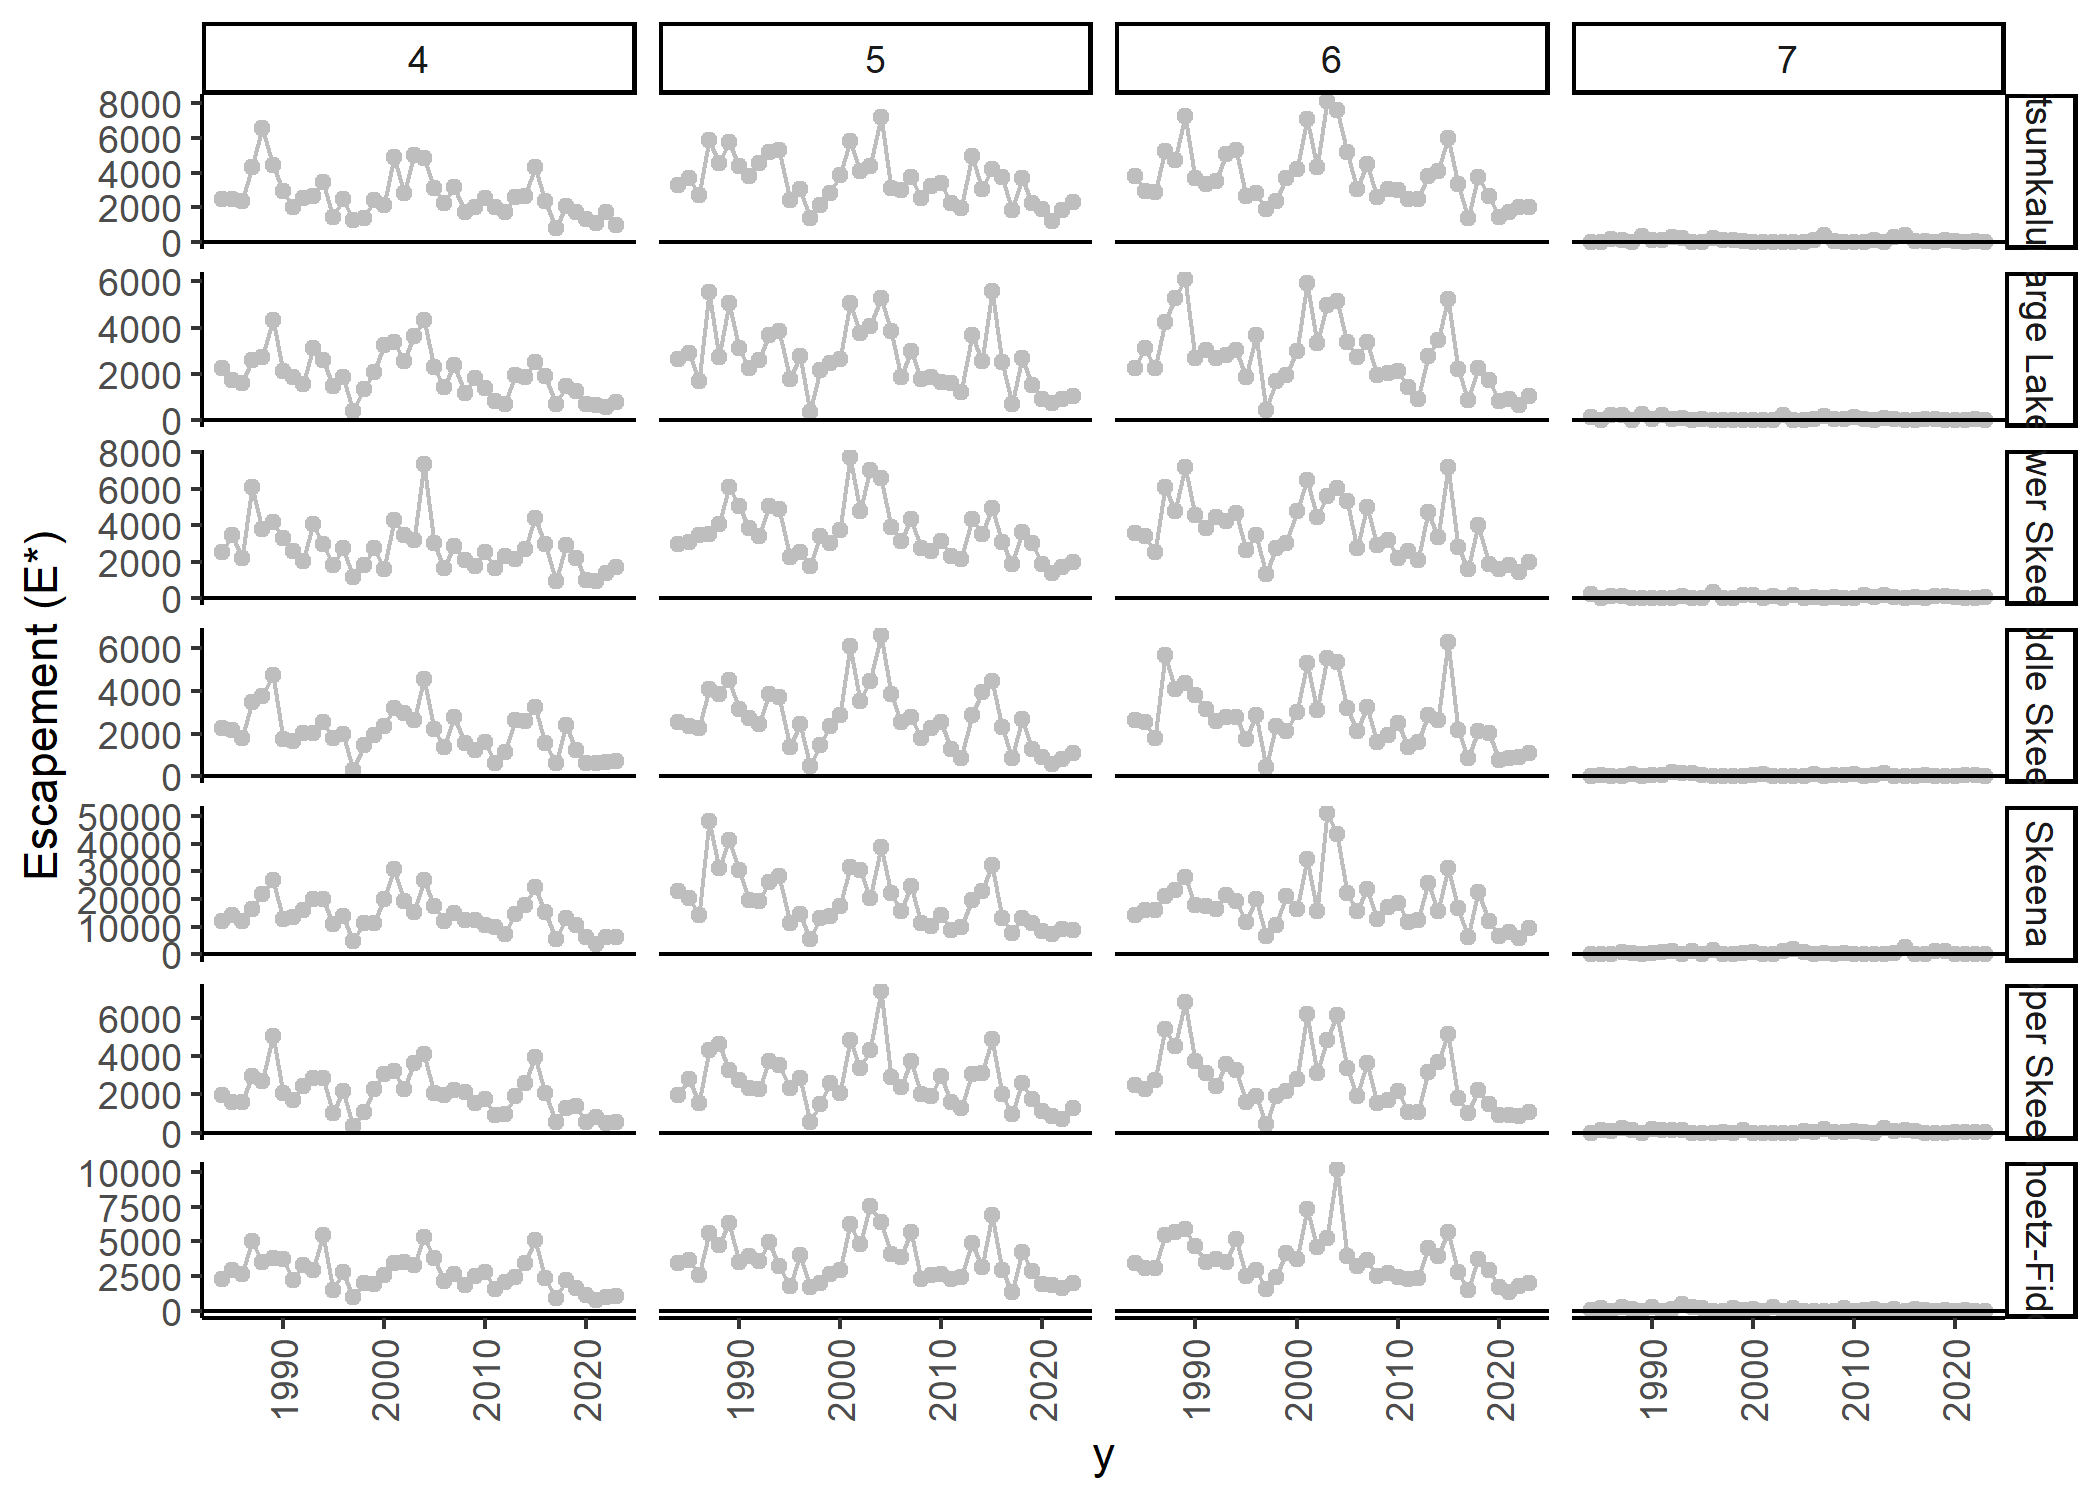
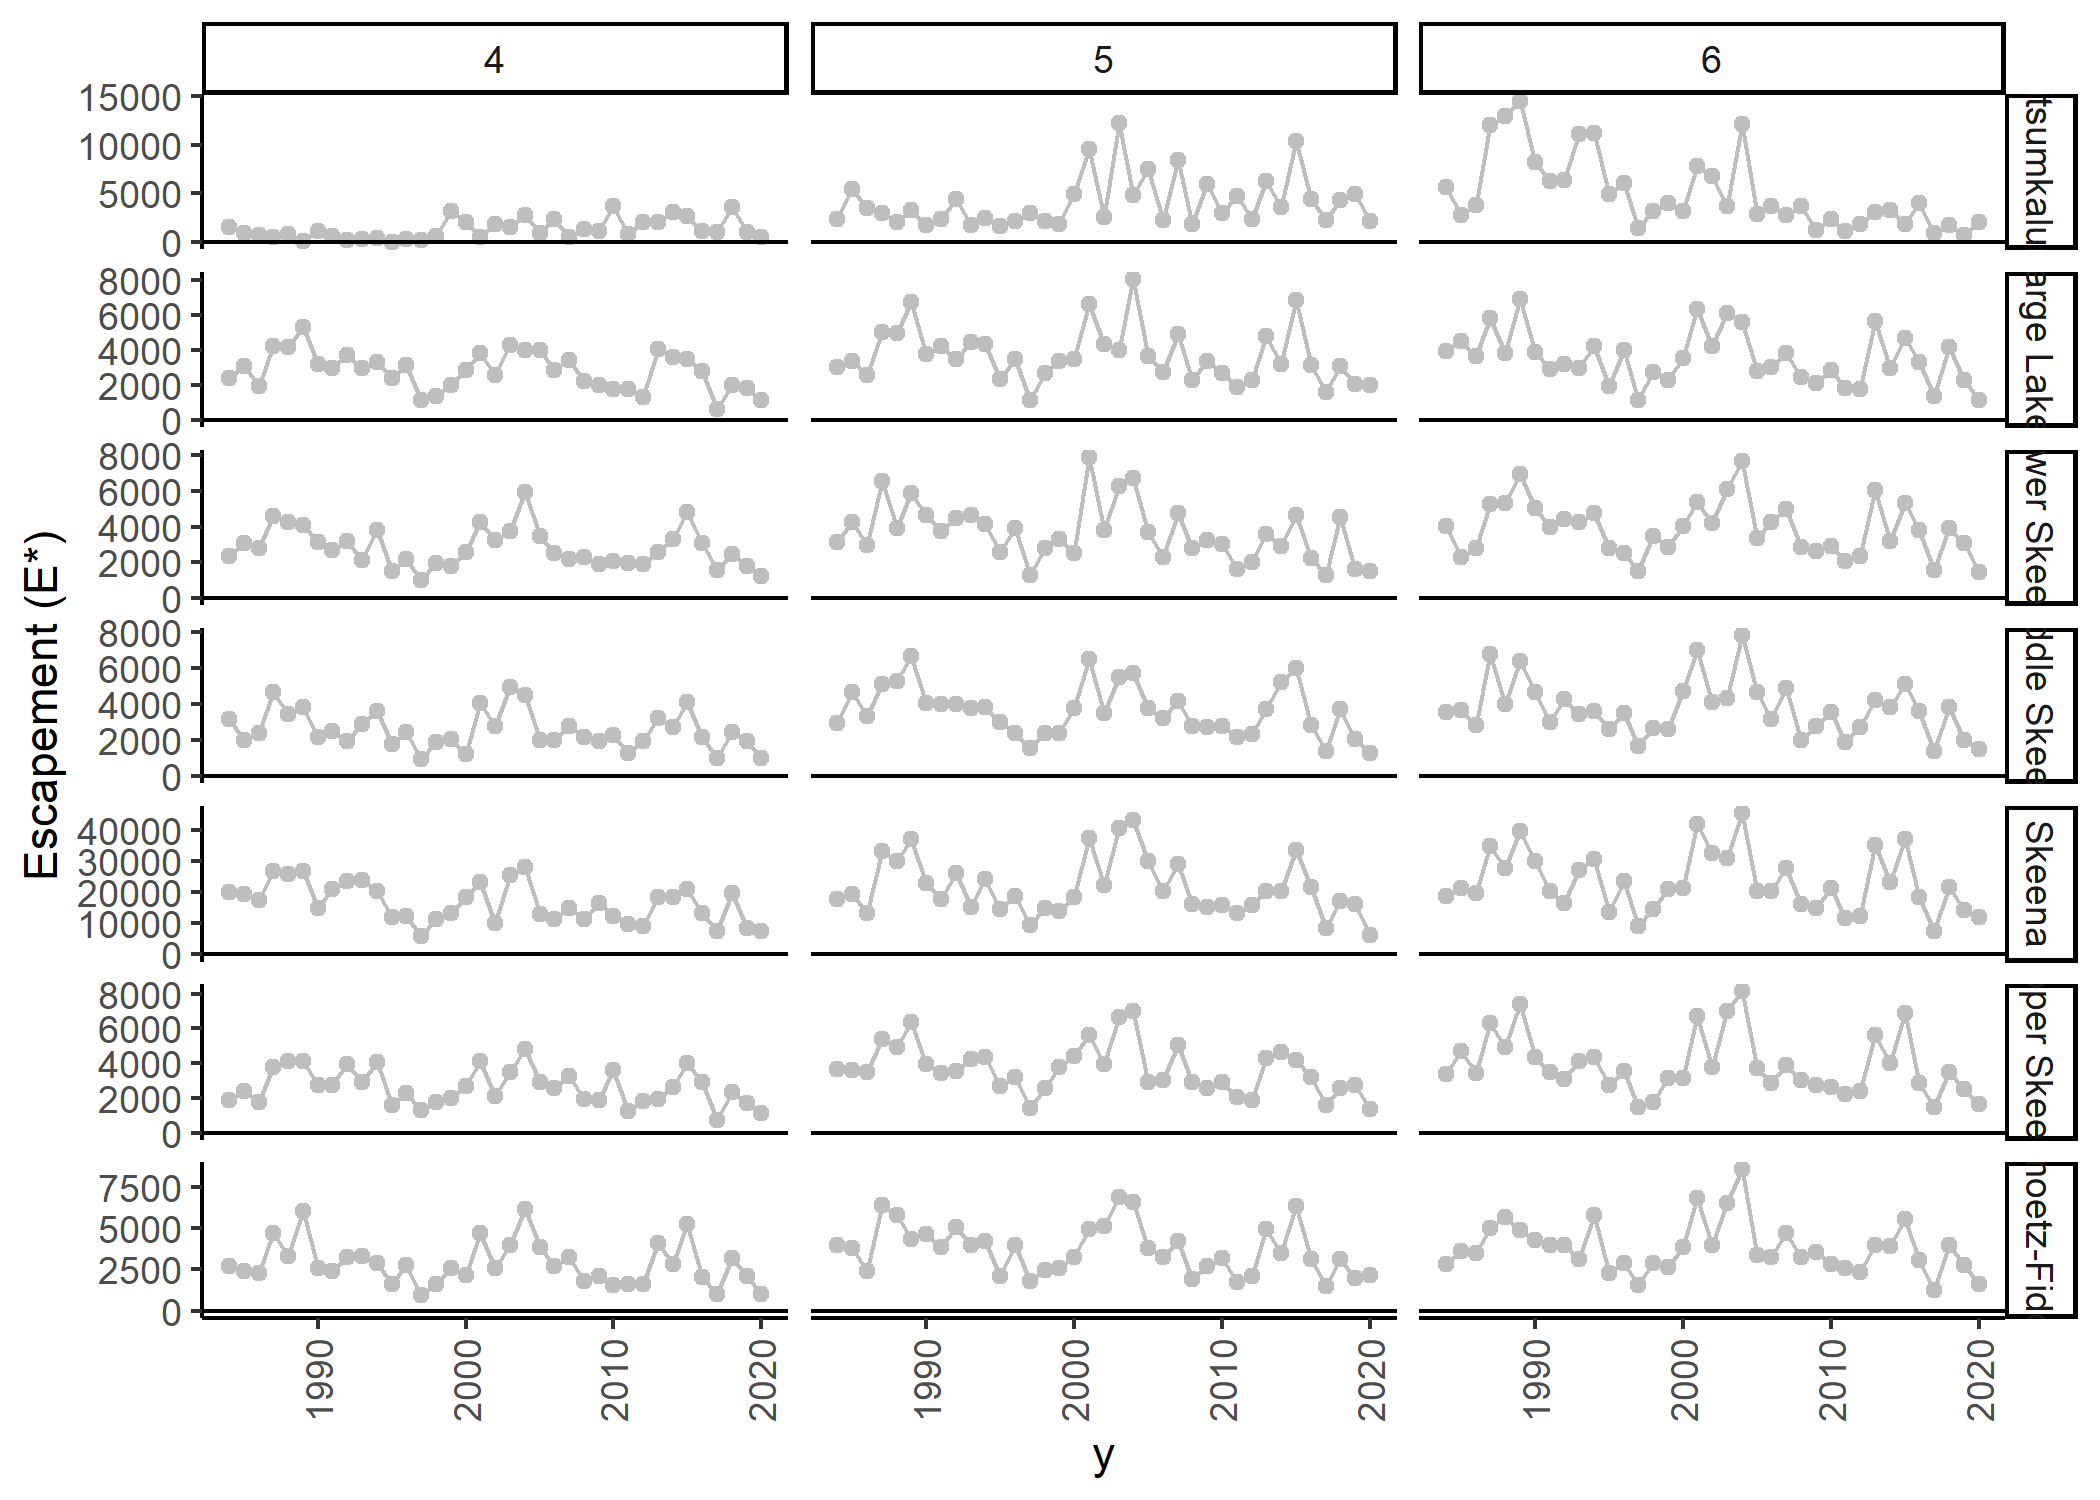
Update README with example data

diff --git a/README.md b/README.md
@@ -45,19 +45,32 @@ You can install the development version of skrunchy from
     install.packages("pak")
     pak::pak("Pacific-salmon-assess/skrunchy")
 
-## Examples (currently use fake data for several data sources - not accurate)
+## Example data
 
-Make some **fake** genetic proportion and catch data (by week),
-aggregate into estimates of annual proportions, and plot:
+The `data/` folder contains example data that all made up (exception is
+Kitsumkalum River escapement data), so don’t use this for any analysis.
+This is only for package testing and examples. Example data goes from
+return years 1984-2020.
+
+Example data sets start with the prefix `ex_`.
+
+## Examples (currently use fake data for several data sources - testing only)
+
+We can walk through all the functions with example data.
+
+Note that most of the package functions produce lists with two elements.
+where the first element is an array, and the second element is a data
+frame. The array is used for subsequent analysis, and the data frame is
+useful for plotting and producing report tables.
+
+Read in example data for Skeena Tyee test fishery weekly catch and
+genetic mixture data.
 
 ``` r
 
-d <- make_P_G()
-res <- get_P_tilde(P = d$P, sigma_P = d$sigma_P, G = d$G)
-P_tilde <- res$P_tilde
-dp <- res$df
+P_tilde <- get_P_tilde(P = ex_P, sigma_P = ex_sigma_P, G = ex_G)
 
-ggplot(dp, aes(y = P_tilde, x = y, group = i)) +
+ggplot( P_tilde$df, aes(y = P_tilde, x = y, group = i)) +
   geom_errorbar( aes( ymin = P_tilde - sigma_P_tilde, ymax = P_tilde + sigma_P_tilde ), colour="dodgerblue") +
   geom_point() +
   geom_line() +
@@ -73,13 +86,11 @@ Now do expansions to get returns to Terrace for each population plus the
 aggregate
 
 ``` r
-k <- read.csv(here("data/kitsumkalum-escapement.csv"))
-X <- get_X(P_tilde = res$P_tilde, sigma_P_tilde = res$sigma_P_tilde, K= k$kitsumkalum_escapement, 
-           sigma_K = k$sd,
-           y = k$year)
-dt <- X$df
+X <- get_X(P_tilde = P_tilde$P_tilde, sigma_P_tilde = P_tilde$sigma_P_tilde, K= ex_k$kitsumkalum_escapement, 
+           sigma_K = ex_k$sd,
+           y = ex_k$year)
 
-ggplot(dt, aes(y = X, x = y, group = i)) +
+ggplot( X$df, aes(y = X, x = y, group = i)) +
   geom_errorbar( aes( ymin = X - sigma_X, ymax = X + sigma_X)) +
   geom_point() +
   geom_line() +
@@ -93,8 +104,7 @@ escapement for each population, plot with returns to Terrace (note, will
 only be different for Skeena aggregate and the three upper populations)
 
 ``` r
-Tau_U <- sample(5000:10000, size=length(k$y), replace=TRUE)
-E <- get_E(K = k$kitsumkalum_escapement, X = X$X, Tau_U = Tau_U,
+E <- get_E(K = ex_k$kitsumkalum_escapement, X = X$X, Tau_U = ex_Tau_U_total,
      known_population = "Kitsumkalum",
      aggregate_population = "Skeena",
      lower_populations = c("Lower Skeena", "Zymoetz-Fiddler"),
@@ -102,11 +112,11 @@ E <- get_E(K = k$kitsumkalum_escapement, X = X$X, Tau_U = Tau_U,
 de <- E$df
 
 
-ggplot(dt, aes(y = X, x = y, group = i)) +
+ggplot(X$df, aes(y = X, x = y, group = i)) +
   geom_errorbar( aes( ymin = X - sigma_X, ymax = X + sigma_X)) +
   geom_point() +
   geom_line() +
-  geom_line(data = de, aes(y = E, x = y, group=i), colour="gray") +
+  geom_line(data = E$df, aes(y = E, x = y, group=i), colour="gray") +
   facet_wrap(~i, ncol=2, scales = "free_y") +
   ylab("Return to Terrace (X) in black, escapement (E) in gray") +
   geom_hline(aes(yintercept=0)) +
@@ -118,20 +128,9 @@ ggplot(dt, aes(y = X, x = y, group = i)) +
 Get age proportions by age, population and year (fake data).
 
 ``` r
- populations <- c("Kitsumkalum", "Lower Skeena", "Zymoetz-Fiddler", "Upper Skeena", "Middle Skeena", "Large Lakes", "Skeena")
-  n_populations <- length(populations)
-  years <- k$year
-  n_years <- length(years)
-  ages <- c(4,5,6,7)
-  p_ages <- c(30,40,40,1) # make up relative frequency of different ages
-  n_ages <- length(ages)
-  # Make up some age data - number of aged fish of each age
-  d <- sapply(p_ages, FUN = function(x){ rpois( n = n_populations*n_years, lambda= x) })
-  n <- array( d,  dim = c(n_populations, n_years, n_ages), dimnames = list(i = populations, y = years, a = ages))
-  omega <- get_omega(n)
-do <- omega$df
+omega <- get_omega(ex_n)
 
-ggplot( do, aes(y = omega, x = y, group = i)) +
+ggplot( omega$df, aes(y = omega, x = y, group = i)) +
   geom_point() + 
   geom_line() + 
   geom_hline(aes(yintercept=0)) + 
@@ -146,7 +145,7 @@ ggplot( do, aes(y = omega, x = y, group = i)) +
 Get age-specific escapement by using age proportions.
 
 ``` r
-E_star <- get_E_star(E = E$E, omega = omega$omega)
+E_star <- get_E_star(E = E$E, omega = omega$omega, K_star = ex_K_star, add_6_7 = TRUE)
 
 ggplot( E_star$df, aes(y = E_star, x = y, group = i)) +
   geom_point( colour="gray") + 
@@ -167,9 +166,13 @@ brood removals are only for Kitsumkalum.
 
 ``` r
 # make up brood removal data. Much larger than actual values, so that it is visible on plots. 
-B_star <- E_star$E_star["Kitsumkalum",,] * runif(n = length(E_star$E_star["Kitsumkalum",,] ), 0.1, 0.2 )
-B_star[,4] <- 0 # make age 7 brood = 0 so you don't get negative fish in S_star
-S_star <- get_S_star(E_star = E_star$E_star, B_star = B_star)
+S_star <- get_S_star(E_star = E_star$E_star, B_star = ex_B_star)
+str(S_star$df)
+#> 'data.frame':    777 obs. of  4 variables:
+#>  $ i     : chr  "Skeena" "Kitsumkalum" "Lower Skeena" "Middle Skeena" ...
+#>  $ y     : int  1984 1984 1984 1984 1984 1984 1984 1985 1985 1985 ...
+#>  $ a     : chr  "4" "4" "4" "4" ...
+#>  $ S_star: num  20000 1555 2379 3143 2732 ...
 
 ggplot( E_star$df, aes(y = E_star, x = y, group = i)) +
   geom_point(colour="gray") + 
@@ -180,6 +183,20 @@ ggplot( E_star$df, aes(y = E_star, x = y, group = i)) +
   ylab("Escapement (E*) in gray and spawners (S*) in blue") +
   theme_classic() +
   theme(axis.text.x = element_text(angle=90, vjust=0.5))
+#> Warning: Combining variables of class <integer> and <character> was deprecated in
+#> ggplot2 3.4.0.
+#> ℹ Please ensure your variables are compatible before plotting (location:
+#>   `combine_vars()`)
+#> This warning is displayed once every 8 hours.
+#> Call `lifecycle::last_lifecycle_warnings()` to see where this warning was
+#> generated.
+#> Warning: Combining variables of class <character> and <integer> was deprecated in
+#> ggplot2 3.4.0.
+#> ℹ Please ensure your variables are compatible before plotting (location:
+#>   `combine_vars()`)
+#> This warning is displayed once every 8 hours.
+#> Call `lifecycle::last_lifecycle_warnings()` to see where this warning was
+#> generated.
 ```
 
 <img src="man/figures/README-example_S_star-1.png" width="100%" />
@@ -190,11 +207,8 @@ spawners should only be different from spawners for Skeena aggregate and
 Kitsumkalum, since hatchery origin spawners only occur for Kitsumkalum.
 
 ``` r
-# make up hatchery spawners data. Larger than actual values, so that it is visible on plots. 
-H_star <- S_star$S_star["Kitsumkalum",,] * runif(n = length(S_star$S_star["Kitsumkalum",,] ), 0.1, 0.5 )
-H_star[,4] <- 0 # make age 7 hatchery 0 to avoid negative wild spawner values.
 ## get Wild spawners
-W_star <- get_W_star( S_star = S_star$S_star, H_star = H_star) 
+W_star <- get_W_star( S_star = S_star$S_star, H_star = ex_H_star) 
 
 ggplot( E_star$df, aes(y = E_star, x = y, group = i)) +
   geom_point(colour="gray") + 
@@ -233,8 +247,7 @@ Estimate terminal total mortalities in the lower Skeena by population,
 year, and age.
 
 ``` r
-Tau_L <- sample(1000:2000, size = length(k$year))
-tau_L <- get_tau_L(Tau_L = Tau_L, omega = omega$omega, P_tilde = P_tilde, aggregate_population = "Skeena")
+tau_L <- get_tau_L(Tau_L = ex_Tau_L_total, omega = omega$omega, P_tilde = P_tilde$P_tilde, aggregate_population = "Skeena", add_6_7 = TRUE)
 dtauL <- tau_L$df 
 
 ggplot( dtauL, aes(y =tau_L, x = y, group = i)) +
@@ -254,13 +267,11 @@ year, and age. Should be 0 for Kitsumkalum, Lower Skeena, and
 Zymoetz-Fiddler.
 
 ``` r
-tau_U <- get_tau_U(Tau_U = Tau_U, omega = omega$omega, P_tilde = P_tilde, aggregate_population = "Skeena",
+tau_U <- get_tau_U(Tau_U = ex_Tau_U_total, omega = omega$omega, P_tilde = P_tilde$P_tilde, aggregate_population = "Skeena",
                    upper_populations = c("Middle Skeena", "Large Lakes", "Upper Skeena"),
-    lower_populations = c("Lower Skeena", "Kitsumkalum", "Zymoetz-Fiddler") )
+    lower_populations = c("Lower Skeena", "Kitsumkalum", "Zymoetz-Fiddler"), add_6_7 = TRUE)
 
-dtauU <- tau_U$df 
-
-ggplot( dtauU, aes(y =tau_U, x = y, group = i)) +
+ggplot( tau_U$df, aes(y =tau_U, x = y, group = i)) +
   geom_point() + 
   geom_line() + 
   geom_hline(aes(yintercept=0)) + 
@@ -276,9 +287,7 @@ Estimate terminal total mortalities in the marine area by population,
 year, and age.
 
 ``` r
-use_arr <- W_star$W_star["Kitsumkalum",,]
-tau_dot_M <- array(runif(length(use_arr), 0.01, 0.2), dim = dim(use_arr), dimnames = dimnames(use_arr))
-tau_M <- get_tau_M( W_star = W_star$W_star, tau_dot_M = tau_dot_M)
+tau_M <- get_tau_M( W_star = W_star$W_star, tau_dot_M = ex_tau_dot_M)
 
 ggplot( tau_M$df, aes(y =tau_M, x = y, group = i)) +
   geom_point() + 
@@ -333,7 +342,7 @@ ggplot( tau$df, aes(y =tau, x = y, group = i)) +
 Get wild terminal run
 
 ``` r
-TermRun <- get_TermRun(tau_W = tau_W$tau_W, W_star = W_star$W_star, B_star = B_star)
+TermRun <- get_TermRun(tau_W = tau_W$tau_W, W_star = W_star$W_star, B_star = ex_B_star)
 
 ggplot( TermRun$df, aes(y =TermRun, x = y, group = i)) +
   geom_line() +
@@ -352,9 +361,7 @@ ggplot( TermRun$df, aes(y =TermRun, x = y, group = i)) +
 Get mature run
 
 ``` r
-use_arr <- TermRun$TermRun["Kitsumkalum",,]
-phi_dot_M <- array(runif(length(use_arr), 0.01, 0.3), dim = dim(use_arr), dimnames = dimnames(use_arr))
-MatureRun <- get_MatureRun(TermRun = TermRun$TermRun, phi_dot_M = phi_dot_M)
+MatureRun <- get_MatureRun(TermRun = TermRun$TermRun, phi_dot_M = ex_phi_dot_M)
 
 ggplot( MatureRun$df, aes(y =MatureRun, x = y, group = i)) +
   geom_line(colour="darkgreen") +
@@ -372,11 +379,7 @@ ggplot( MatureRun$df, aes(y =MatureRun, x = y, group = i)) +
 Pre-terminal post fishery abundance.
 
 ``` r
-use_arr <- MatureRun$MatureRun["Kitsumkalum",,]
-# Make up some maturation rate data
-r <- array(runif(length(use_arr), 0.5, 0.99), dim = dim(use_arr), dimnames = dimnames(use_arr))
-r[, dimnames(r)$a %in% c(6,7) ] <- 1 # make maturation rate = 1 for age 6 and 7 fish
-A_phi <- get_A_phi( MatureRun = MatureRun$MatureRun, r = r)
+A_phi <- get_A_phi( MatureRun = MatureRun$MatureRun, r = ex_r)
 
 ggplot( MatureRun$df, aes(y =MatureRun, x = y, group = i)) +
   geom_line(colour="darkgreen") +
@@ -393,10 +396,7 @@ ggplot( MatureRun$df, aes(y =MatureRun, x = y, group = i)) +
 Pre-fishery ocean abundance.
 
 ``` r
-use_arr <-A_phi$A_phi["Kitsumkalum",,]
-# Make up some preterminal total mortality exploitation rate (non-net fisheries, e.g., troll) data
-phi_dot_E <- array(runif(length(use_arr), 0.01, 0.3), dim = dim(use_arr), dimnames = dimnames(use_arr))
-A_P <- get_A_P( A_phi = A_phi$A_phi, phi_dot_E = phi_dot_E)
+A_P <- get_A_P( A_phi = A_phi$A_phi, phi_dot_E = ex_phi_dot_E)
 
 ggplot( A_phi$df, aes(y = A_phi, x = y, group = i)) +
   geom_line(colour="dodgerblue") +
@@ -431,12 +431,7 @@ ggplot( phi_N$df, aes(y = phi_N, x = y, group = i)) +
 Preterminal fishing mortality in adult equivalents.
 
 ``` r
-use_arr <- phi_N$phi_N["Kitsumkalum",,]
-# Make up some adult equivalents data
-Q <- array(runif(length(use_arr), 0.5, 0.9), dim = dim(use_arr), dimnames = dimnames(use_arr))
-Q[, dimnames(r)$a %in% c(6,7) ] <- 1 # make maturation rate = 1 for age 6 and 7 fish
-
-phi_Q <- get_phi_Q( phi_N = phi_N$phi_N, Q = Q)
+phi_Q <- get_phi_Q( phi_N = phi_N$phi_N, Q = ex_Q)
 
 ggplot( phi_N$df, aes(y = phi_N, x = y, group = i)) +
   geom_line() +
@@ -466,20 +461,6 @@ ggplot( R_star$df, aes(y = R_star, x = y, group = i)) +
   facet_grid( i ~ a, scales="free_y") +
   theme_classic() +
   theme(axis.text.x = element_text(angle=90, vjust=0.5))
-#> Warning: Combining variables of class <integer> and <character> was deprecated in
-#> ggplot2 3.4.0.
-#> ℹ Please ensure your variables are compatible before plotting (location:
-#>   `combine_vars()`)
-#> This warning is displayed once every 8 hours.
-#> Call `lifecycle::last_lifecycle_warnings()` to see where this warning was
-#> generated.
-#> Warning: Combining variables of class <character> and <integer> was deprecated in
-#> ggplot2 3.4.0.
-#> ℹ Please ensure your variables are compatible before plotting (location:
-#>   `combine_vars()`)
-#> This warning is displayed once every 8 hours.
-#> Call `lifecycle::last_lifecycle_warnings()` to see where this warning was
-#> generated.
 ```
 
 <img src="man/figures/README-example_R_star-1.png" width="100%" />
